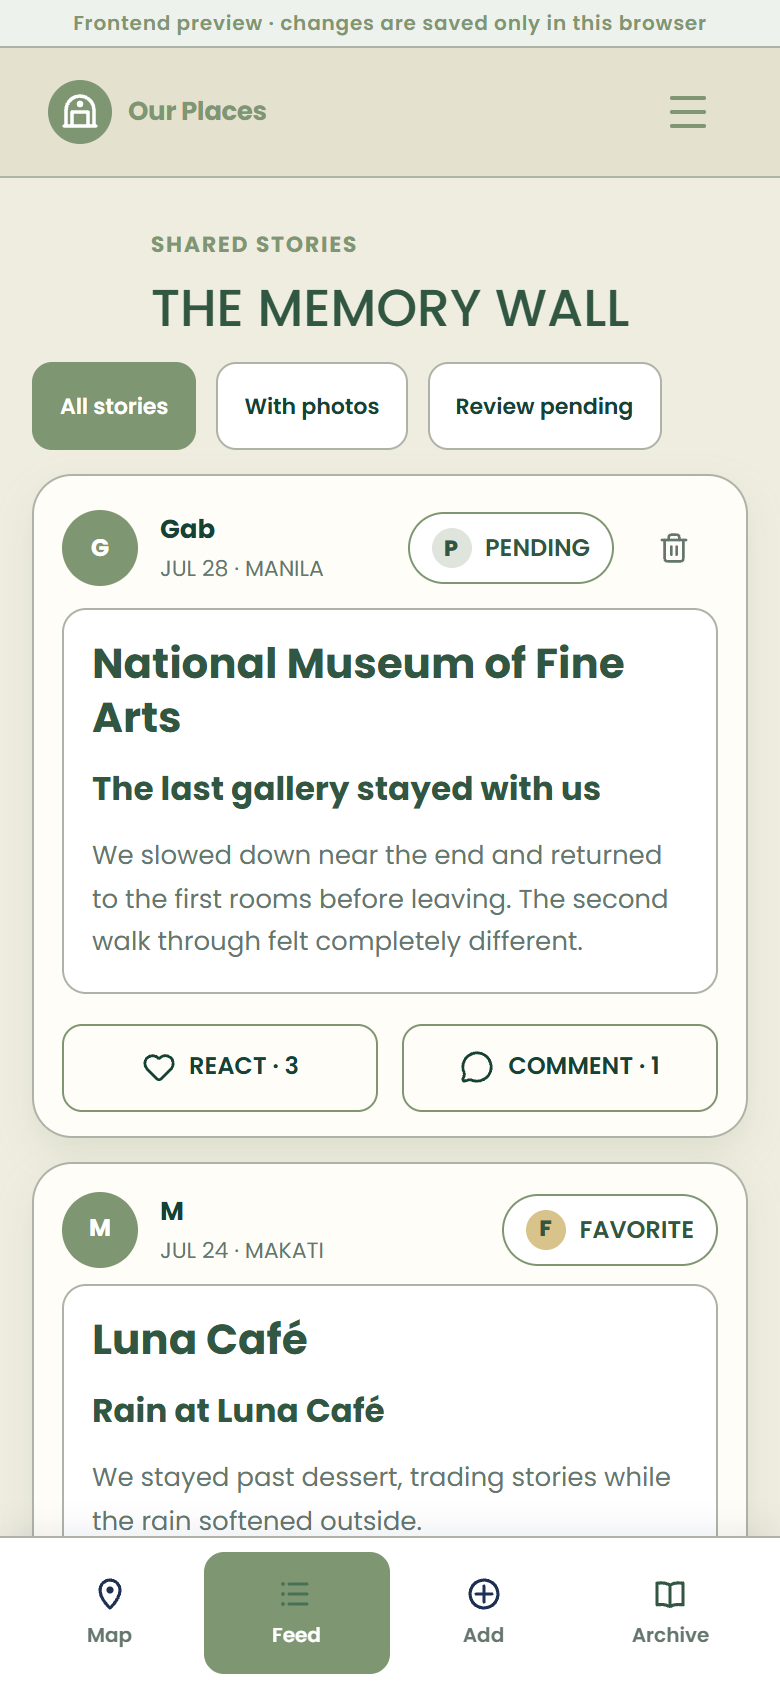
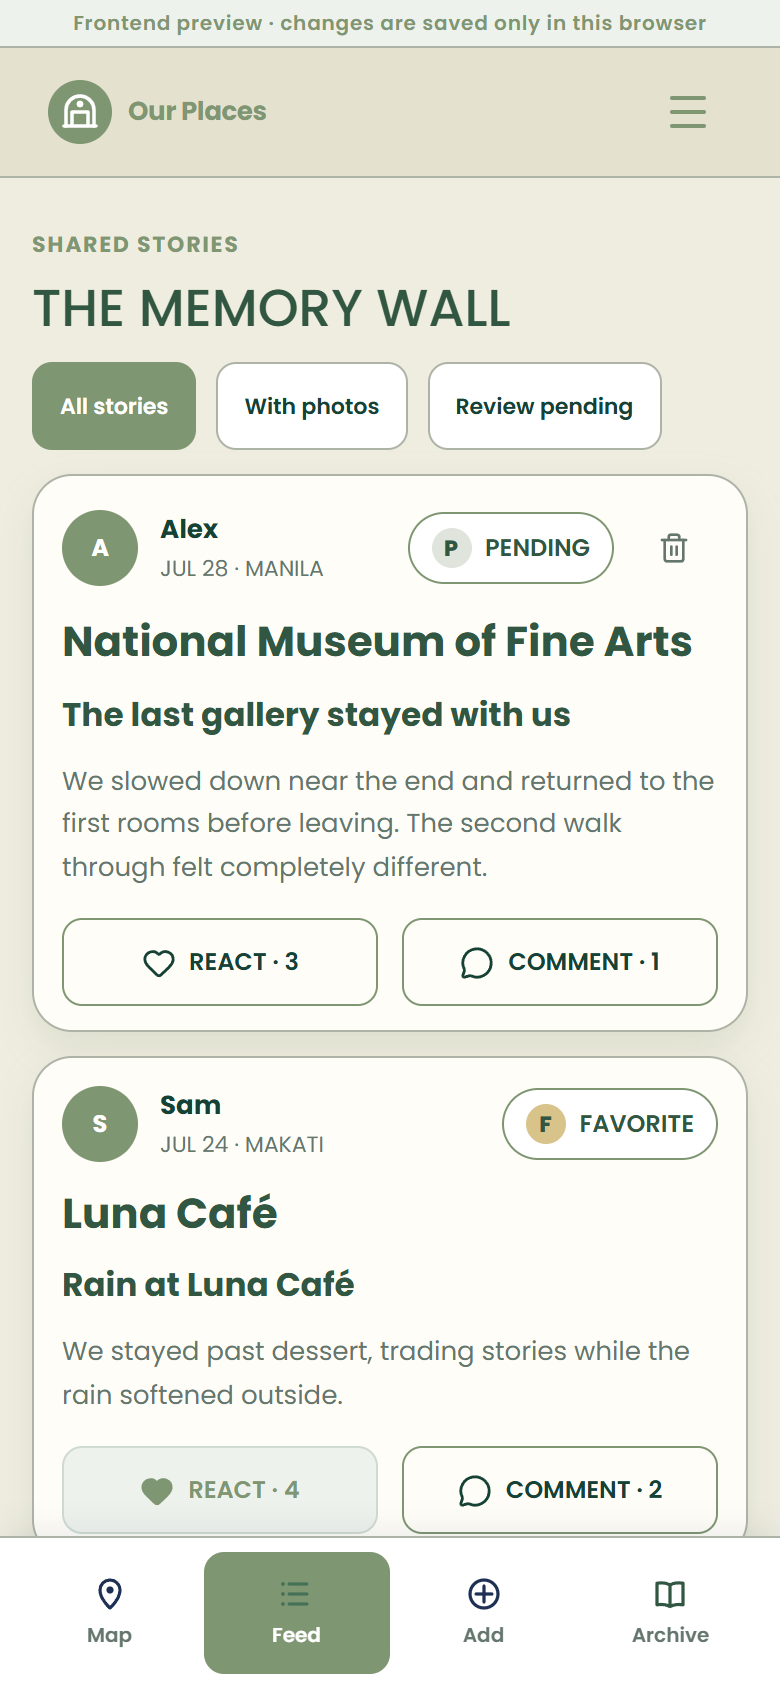
Keep personal details out of the public repository
- Stop tracking project/ (private coursework); it stays in the private
  workspace and is now gitignored
- Preview data and tests use invented members instead of real names
- Remove the Figma team name from FIGMA_BUILD_STATE.json
- Drop unused NEXT_PUBLIC_ place key placeholders, which would have been
  sent to the browser
- Credit map data, Wikipedia, fonts, and icon and map libraries
- Refresh README screenshots

diff --git a/src/lib/places.test.ts b/src/lib/places.test.ts
@@ -18,8 +18,8 @@ import {
 const place = (slug: string, status: VisitStatus, extra: Partial<Place> = {}) =>
   ({ id: slug, slug, status, visitCount: 0, combinedScore: null, reviewProgress: "not-started", ...extra }) as Place;
 
-const gab = { id: "gab" } as Member;
-const partner = { id: "m" } as Member;
+const alex = { id: "alex" } as Member;
+const partner = { id: "sam" } as Member;
 const review = (author: Member, overall: number) => ({ author, ratings: { overall } }) as Review;
 const post = (placeId: string, createdAt: string, reviews: Review[], visitedOn = createdAt.slice(0, 10)) =>
   ({ place: { id: placeId }, createdAt, visitedOn, reviews }) as VisitPost;
@@ -76,23 +76,23 @@ describe("withDerivedReviewState", () => {
   const places = [place("cafe", "visited"), place("park", "planned")];
 
   it("derives score and progress from the latest visit for the current viewer", () => {
-    const posts = [post("cafe", "2026-07-01T10:00:00Z", [review(gab, 4), review(partner, 5)]), post("cafe", "2026-08-01T10:00:00Z", [review(gab, 3)])];
-    const forGab = withDerivedReviewState(places, posts, gab.id);
+    const posts = [post("cafe", "2026-07-01T10:00:00Z", [review(alex, 4), review(partner, 5)]), post("cafe", "2026-08-01T10:00:00Z", [review(alex, 3)])];
+    const forAlex = withDerivedReviewState(places, posts, alex.id);
     const forPartner = withDerivedReviewState(places, posts, partner.id);
 
-    expect(forGab[0]).toMatchObject({ combinedScore: null, reviewProgress: "partner-review-needed" });
+    expect(forAlex[0]).toMatchObject({ combinedScore: null, reviewProgress: "partner-review-needed" });
     expect(forPartner[0]).toMatchObject({ combinedScore: null, reviewProgress: "your-review-needed" });
-    expect(forGab[1]).toMatchObject({ combinedScore: null, reviewProgress: "not-started" });
+    expect(forAlex[1]).toMatchObject({ combinedScore: null, reviewProgress: "not-started" });
   });
 
   it("reveals the combined score once both reviews on the latest visit exist", () => {
-    const posts = [post("cafe", "2026-08-01T10:00:00Z", [review(gab, 4), review(partner, 5)])];
-    expect(withDerivedReviewState(places, posts, gab.id)[0]).toMatchObject({ combinedScore: 4.5, reviewProgress: "ready" });
+    const posts = [post("cafe", "2026-08-01T10:00:00Z", [review(alex, 4), review(partner, 5)])];
+    expect(withDerivedReviewState(places, posts, alex.id)[0]).toMatchObject({ combinedScore: 4.5, reviewProgress: "ready" });
   });
 
   it("clears the score when the last visit is deleted", () => {
     const stale = place("cafe", "visited", { combinedScore: 5, reviewProgress: "ready" });
-    expect(withDerivedReviewState([stale], [], gab.id)[0]).toMatchObject({ combinedScore: null, reviewProgress: "not-started" });
+    expect(withDerivedReviewState([stale], [], alex.id)[0]).toMatchObject({ combinedScore: null, reviewProgress: "not-started" });
   });
 });
 

diff --git a/src/lib/mock-data.ts b/src/lib/mock-data.ts
@@ -8,15 +8,15 @@ import type {
 
 export const members: Member[] = [
   {
-    id: "member-gab",
-    displayName: "Gab",
-    initials: "G",
+    id: "member-alex",
+    displayName: "Alex",
+    initials: "A",
     role: "owner",
   },
   {
-    id: "member-m",
-    displayName: "M",
-    initials: "M",
+    id: "member-sam",
+    displayName: "Sam",
+    initials: "S",
     role: "partner",
   },
 ];
@@ -202,8 +202,8 @@ export const places: Place[] = [
   },
 ];
 
-const gabNationalReview: Review = {
-  id: "review-national-gab",
+const alexNationalReview: Review = {
+  id: "review-national-alex",
   author: members[0],
   ratings: {
     collection: 4,
@@ -219,8 +219,8 @@ const gabNationalReview: Review = {
   submittedAt: "2026-07-28T10:30:00.000Z",
 };
 
-const gabLunaReview: Review = {
-  id: "review-luna-gab",
+const alexLunaReview: Review = {
+  id: "review-luna-alex",
   author: members[0],
   ratings: {
     collection: 5,
@@ -236,8 +236,8 @@ const gabLunaReview: Review = {
   submittedAt: "2026-07-24T18:15:00.000Z",
 };
 
-const mLunaReview: Review = {
-  id: "review-luna-m",
+const samLunaReview: Review = {
+  id: "review-luna-sam",
   author: members[1],
   ratings: {
     collection: 5,
@@ -263,7 +263,7 @@ export const visitPosts: VisitPost[] = [
     title: "The last gallery stayed with us",
     story:
       "We slowed down near the end and returned to the first rooms before leaving. The second walk through felt completely different.",
-    reviews: [gabNationalReview],
+    reviews: [alexNationalReview],
     comments: 1,
     reactions: [
       { type: "love", count: 2, selected: false },
@@ -280,7 +280,7 @@ export const visitPosts: VisitPost[] = [
     title: "Rain at Luna Café",
     story:
       "We stayed past dessert, trading stories while the rain softened outside.",
-    reviews: [gabLunaReview, mLunaReview],
+    reviews: [alexLunaReview, samLunaReview],
     comments: 2,
     reactions: [
       { type: "love", count: 3, selected: true },

diff --git a/src/lib/plans.test.ts b/src/lib/plans.test.ts
@@ -66,7 +66,7 @@ describe("plan display", () => {
 
 describe("plan reminder email", () => {
   const input = {
-    memberName: "Gab",
+    memberName: "Alex",
     place: { name: "Luna <Café>", address: "12 Rizal St", city: "Makati", slug: "luna-cafe" },
     plan: { date: "2026-10-11", time: "15:00", note: "Ask for the \"window\" table" },
     appUrl: "https://ourplaces.example/",
@@ -76,7 +76,7 @@ describe("plan reminder email", () => {
   it("says when and where, with a link back to the place", () => {
     const email = planReminderEmail(input);
     expect(email.subject).toBe("Reminder: Luna <Café> tomorrow at 3:00 PM");
-    expect(email.text).toContain("Hi Gab,");
+    expect(email.text).toContain("Hi Alex,");
     expect(email.text).toContain("Where: 12 Rizal St, Makati");
     expect(email.text).toContain("Open the place: https://ourplaces.example/places/luna-cafe");
     expect(email.text).toContain("turn them off in Profile");
@@ -100,11 +100,11 @@ describe("plan reminder email", () => {
 describe("review reminder email", () => {
   it("names the visit and links to it, escaping names in the HTML version", () => {
     const email = reviewReminderEmail({
-      memberName: "M", authorName: "Gab <3", place: { name: "Luna & Co", slug: "luna-co" }, visitedOn: "2026-09-20", appUrl: "https://ourplaces.example",
+      memberName: "Sam", authorName: "Alex <3", place: { name: "Luna & Co", slug: "luna-co" }, visitedOn: "2026-09-20", appUrl: "https://ourplaces.example",
     });
-    expect(email.subject).toBe("Gab <3 logged Luna & Co: your review is waiting");
+    expect(email.subject).toBe("Alex <3 logged Luna & Co: your review is waiting");
     expect(email.text).toContain("Add your review: https://ourplaces.example/places/luna-co");
-    expect(email.html).toContain("Gab &lt;3");
+    expect(email.html).toContain("Alex &lt;3");
     expect(email.html).toContain("Luna &amp; Co");
   });
 });

diff --git a/src/components/passport-provider.tsx b/src/components/passport-provider.tsx
@@ -91,7 +91,7 @@ function seededState(): PreviewState {
     places: clone(seedPlaces),
     posts: clone(seedPosts),
     members: clone(seedMembers),
-    currentMemberId: seedMembers[0]?.id ?? "member-gab",
+    currentMemberId: seedMembers[0]?.id ?? "member-alex",
     settings: { reviewReminders: true, locationEnabled: false, planReminders: true },
   };
 }

diff --git a/README.md b/README.md
@@ -48,8 +48,6 @@ Copy `.env.example` to `.env.local`.
 | Variable | Purpose |
 |---|---|
 | `DATABASE_URL` | Server-only PostgreSQL connection string. Leave empty to use the frontend preview. Never commit a real value. |
-| `NEXT_PUBLIC_PLACE_PROVIDER` | Placeholder for the planned map provider (`openstreetmap`). Not used yet. |
-| `NEXT_PUBLIC_PLACE_API_KEY` | Placeholder for that provider. Not used yet. |
 | `PHOTO_DIR` | Server-only folder for uploaded photos, outside `public/`. Defaults to `./storage/photos`. |
 | `SMTP_HOST`, `SMTP_PORT`, `SMTP_USER`, `SMTP_PASS` | Mail server for plan and review reminders, for example Gmail (`smtp.gmail.com`, port 587, with an app password). Port 465 uses TLS from the start; set `SMTP_SECURE` to override. Without `SMTP_HOST`, emails are saved as `.eml` files in `./storage/outbox` instead of being sent. |
 | `MAIL_FROM` | Sender shown on reminder emails. Defaults to `Our Places <SMTP_USER>`. |
@@ -129,7 +127,6 @@ db/               PostgreSQL schema and server setup notes
 scripts/          Account provisioning and dev tooling
 public/           SVG images and icons
 docs/             README screenshots
-project/          Coursework submissions
 supabase/         Earlier Supabase design, not used
 ```
 
@@ -144,6 +141,14 @@ supabase/         Earlier Supabase design, not used
 | ![Luna Café with both reviews revealed](docs/screenshots/place.png) | ![Map with status filters and a selected place](docs/screenshots/map.png) |
 
 <img src="docs/screenshots/feed-mobile.png" alt="The feed on a phone" width="320">
+
+## Credits
+
+- Map data and tiles © [OpenStreetMap contributors](https://www.openstreetmap.org/copyright) (ODbL); place search through Nominatim and road data through the Overpass API.
+- Place summaries from [Wikipedia](https://www.wikipedia.org/) (CC BY-SA), linked back to each article.
+- [Poppins](https://fonts.google.com/specimen/Poppins) by Indian Type Foundry, SIL Open Font License 1.1 (the licence is embedded in each font file).
+- Icons from [Lucide](https://lucide.dev/) (ISC); maps drawn with [Leaflet](https://leafletjs.com/) (BSD 2-Clause).
+- The interface design, the SVG assets in `public/assets`, and the screenshots are this project's own work. Sample places are real public venues; every person in the sample data is invented.
 
 ## Known issues and next steps
 
